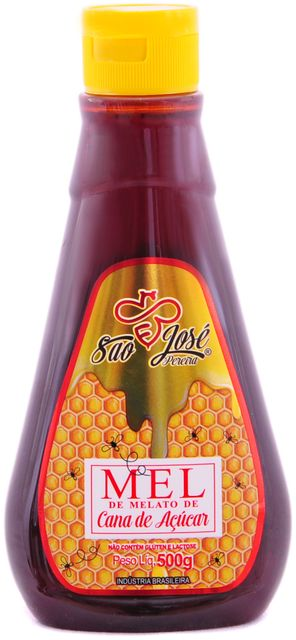
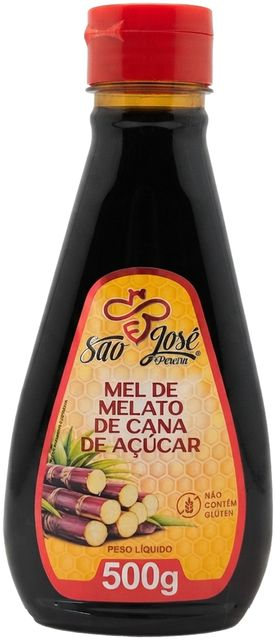
V2.8: novas fotos do Melato de Cana e da Própolis Verde
Claude-Session: https://claude.ai/code/session_01RruDj3NwK7V9xevfMfdLLQ

diff --git a/index.html b/index.html
@@ -1,5 +1,5 @@
 <!DOCTYPE html>
-<!-- Site Mel São José - V2.7 -->
+<!-- Site Mel São José - V2.8 -->
 <html lang="pt-BR">
 <head>
   <meta charset="UTF-8">
@@ -248,7 +248,7 @@
         </article>
 <article class="card reveal" data-cat="meis">
           <div class="foto foto-card" data-rotulo="Foto do produto">
-            <img src="assets/produto-melato.jpg" width="296" height="640" decoding="async" loading="lazy" alt="Mel de Melato de Cana-de-Açúcar" onerror="this.remove()">
+            <img src="assets/produto-melato.jpg" width="276" height="640" decoding="async" loading="lazy" alt="Mel de Melato de Cana-de-Açúcar" onerror="this.remove()">
           </div>
           <h3>Mel de Melato de Cana-de-Açúcar</h3>
           <p>Diferente dos demais méis, não é elaborado a partir de flores, mas da seiva da cana dos canaviais queimados ou cortados. É muito escuro e pouco viscoso, com forte aroma de rapadura.</p>
@@ -275,7 +275,7 @@
         </article>
 <article class="card reveal" data-cat="propolis">
           <div class="foto foto-card" data-rotulo="Foto do produto">
-            <img src="assets/produto-propolis-verde.jpg" width="208" height="560" decoding="async" loading="lazy" alt="Extrato de Própolis Verde" onerror="this.remove()">
+            <img src="assets/produto-propolis-verde.jpg" width="346" height="560" decoding="async" loading="lazy" alt="Extrato de Própolis Verde" onerror="this.remove()">
           </div>
           <h3>Extrato de Própolis Verde</h3>
           <p>Extrato de própolis verde, de coloração e aroma característicos.</p>

diff --git a/README.md b/README.md
@@ -74,3 +74,7 @@ Para adicionar mais marcos, copie um bloco `<div class="marco reveal">` em `inde
 - Logo oficial adicionada em `assets/logo.png` (360 px de largura, 13 KB) e exibida no topo ao lado do nome, nas páginas inicial, de privacidade e 404.
 - Ícone da aba (`assets/favicon.png`, 256x256) agora usa a logo, no lugar do emoji provisório.
 - Altura da logo no cabeçalho de 44 para 52 px, para ficar legível.
+
+## V2.8 — Fotos do Melato e da Própolis Verde
+- Atualizadas `produto-melato.jpg` (frente) e `produto-propolis-verde.jpg` (frasco + caixa).
+- Adicionada `produto-melato-verso.jpg` (verso, com tabela nutricional), guardada para uma futura galeria; ainda não é exibida no site.
